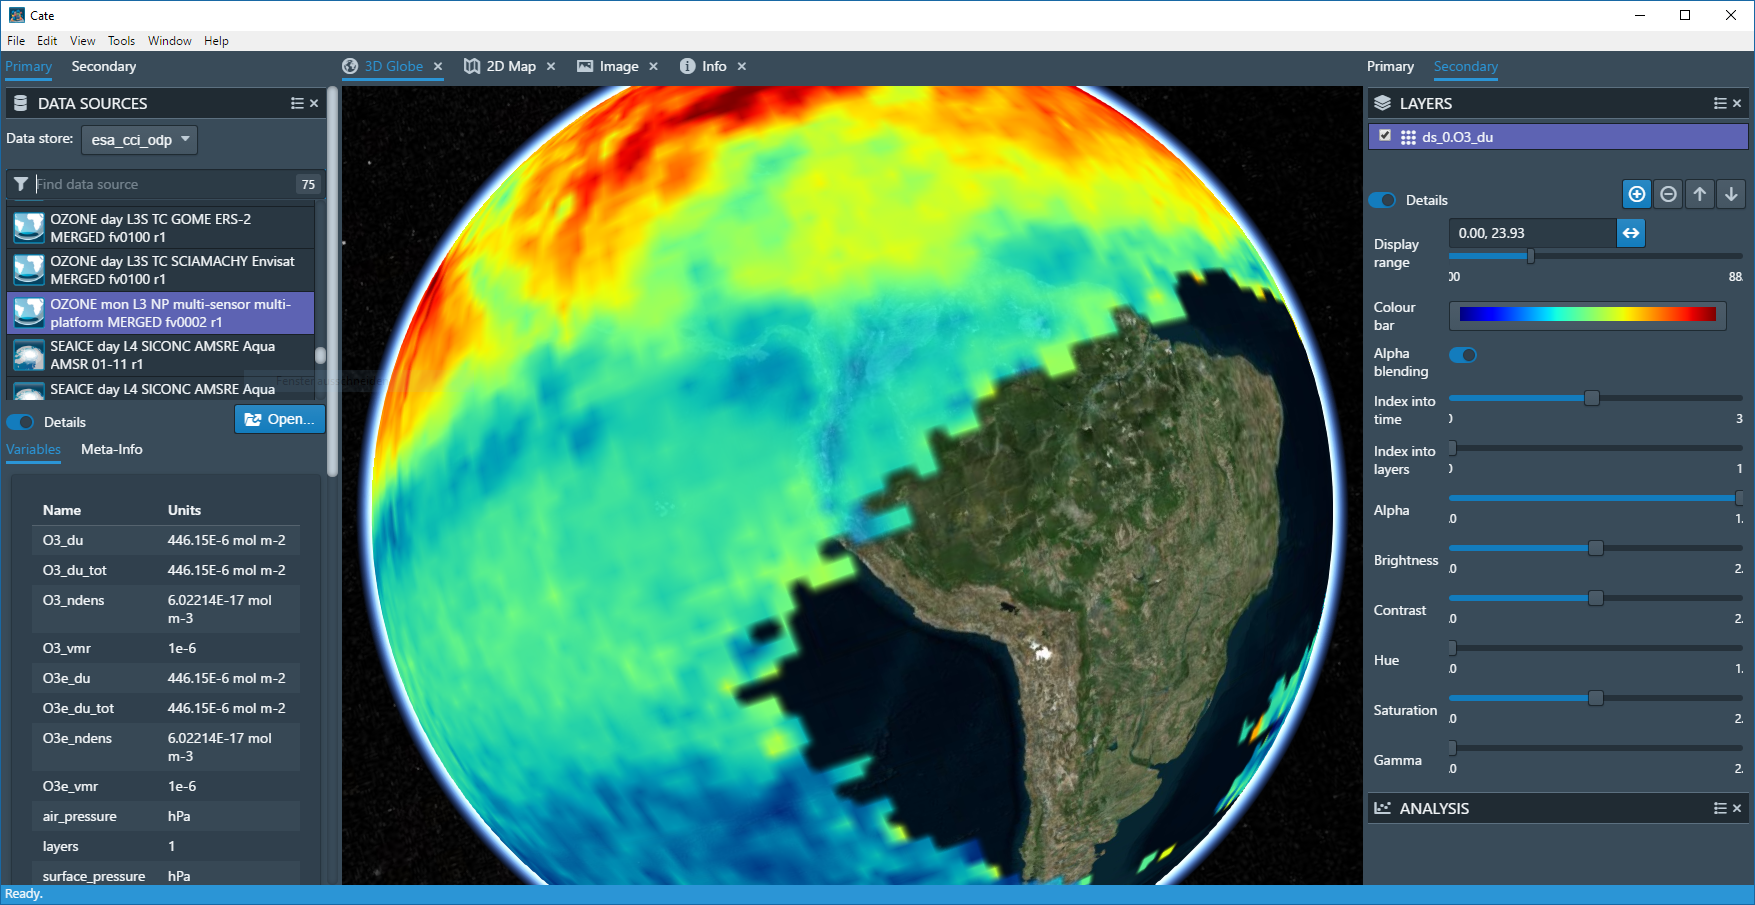
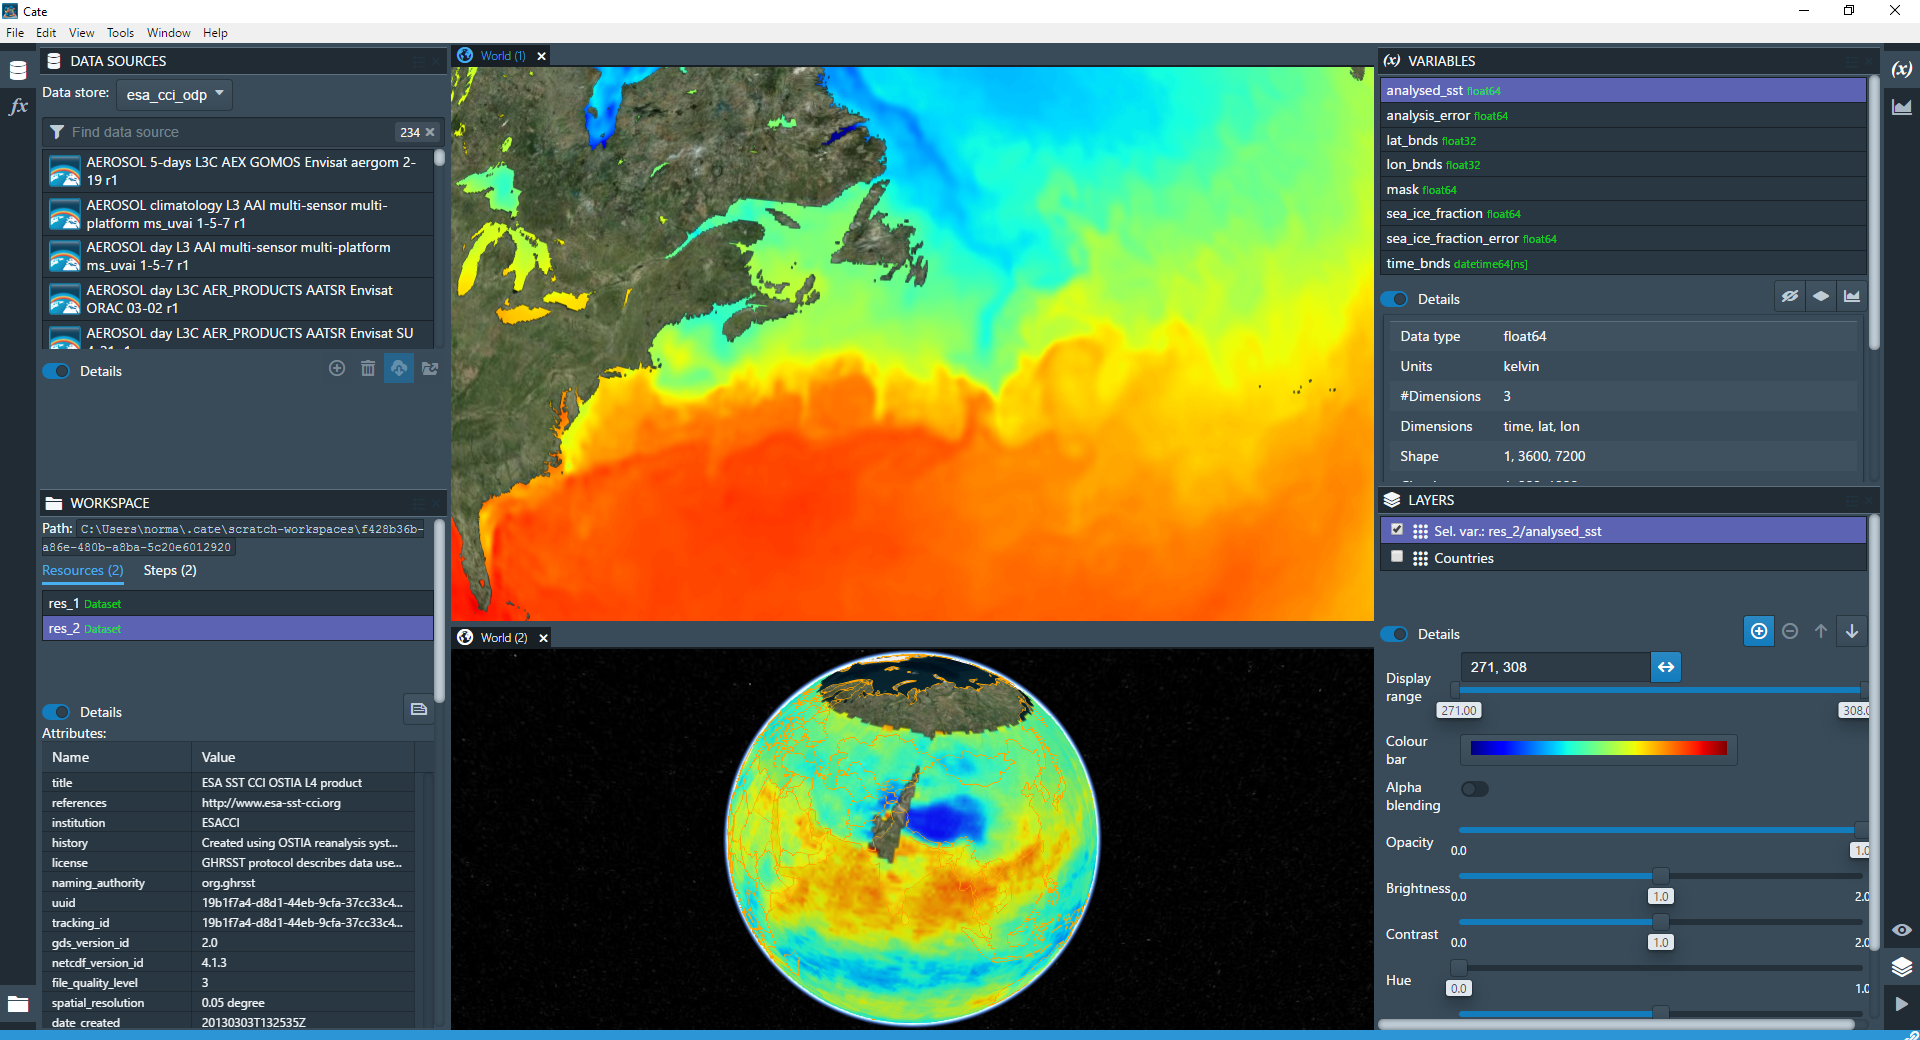
doc updates

diff --git a/doc/source/about.rst b/doc/source/about.rst
@@ -1,15 +1,161 @@
+.. _Climate Change Initiative: http://cci.esa.int/objective
+.. _CCI Open Data Portal: http://cci.esa.int/
+.. _xarray: http://xarray.pydata.org/en/stable/
+.. _pandas: http://pandas.pydata.org/
+.. _geopandas: http://geopandas.org/
+.. _NumPy: http://www.numpy.org/
+
+
+
 ==========
 About Cate
 ==========
 
-What is it for
-==============
+The name *Cate* stands for "Climate Analysis Toolbox for ESA" and is a software developed to facilitate
+processing and analysis of all the data products generated by the ESA `Climate Change Initiative`_ Programme (CCI).
 
-Why shall I use it
-==================
+Interfaces
+==========
 
-What does it contain
-====================
+Cate comprises three major software interfaces:
 
-Where do I find what
-====================
+1. The Cate **Python API** allows you using Cate functions in your Python programs. Cate is
+   programmed in Python 3.
+2. The Cate **Command-Line Interface** (CLI) used to access and process data through a command shell or
+   console terminal. Almost all Cate functionality is accessible through its CLI. You may decide to use the CLI
+   if you don't like programming in Python. The CLI may also be used to write batch processing scripts for
+   automation.
+3. **Cate Desktop** is a user-friendly desktop application. It provides a graphical user interface
+   to all the functionality provided by the CLI. In addition, the GUI
+   allows for visualising data on 3D globes and 2D maps.
+
+Concepts
+========
+
+The Cate software is based on a few simple concepts, which are referred to in all user interfaces. Therefore
+you should make yourself familiar with them before using Cate.
+
+Data Stores
+-----------
+
+By default, Cate uses the `CCI Open Data Portal`_ (ODP) **remote data store** which provides access to all published
+CCI datasets. There is also a **local data store**, which is used to synchronise remote data or to add any other
+data sources to Cate [1]_.
+
+Data Sources
+------------
+
+A data store comprises multiple **data sources** which know each dataset's unique identifier and other descriptive
+information about the dataset. Each data source also knows about the available data access protocols, which may be
+direct file access, file download via HTTP, or access through OPeNDAP, or a Web Coverage Service (WCS).
+
+In Cate's CLI, ``cate ds`` is used to perform numerous dataset-related tasks. Type:::
+
+    $ cate ds --help
+
+to get an overview of the supported sub-comands. For example, use
+
+    $ cate ds list
+
+to list and query available data sources.
+
+In the GUI, the panel **DATA SOURCES** lets you query and open all available data sources.
+
+Note that all remote CCI data source identifiers are prefixed by "esacci.", for example
+``esacci.SST.day.L4.SSTdepth.multi-sensor.multi-platform.OSTIA.1-0.r1``. Local data source identifiers are
+prefixed by "local.", for example ``local.SST_NAC_2010``.
+
+
+Datasets
+--------
+
+You may **open datasets** from a data source just by providing the dataset's identifier. The underlying physical
+file structure or access protocol remains transparent. That way, Cate can also deal with datasets that don't fit
+into your computer's memory, Cate allows for *out-of-core* and *multi-core* processing.
+However, you can always **read datasets** directly from your local. e.g. NetCDF files or ESRI Shapefiles.
+
+For Python programmers: it might be interesting for you that Cate does not invent new data structures for
+representing datasets in memory. Instead, opened datasets are represented by data structures defined by
+the popular Python packages `xarray`_, `pandas`_, and `geopandas`_:
+
+* Gridded and raster datasets (based on NetCDF/CF or OPeNDAP) are represented by `xarray.Dataset` objects [2]_.
+  Dataset variables are represented by `NumPy`_-compatible `xarray.DataArray` objects.
+* Vector datasets (from ESRI Shapefiles, GeoJSON files) are represented by `geopandas.GeoDataFrame` objects.
+  Dataset variables are represented by pandas-compatible `geopandas.GeoSeries` objects.
+* Tabular data (from CSV, Excel files) are represented by `pandas.DataFrame` objects.
+
+Functions and Operations
+------------------------
+
+Cate provides numerous I/O, analysis, and processing **operations** that address typical climate analyses.
+They are available through all Cate interfaces, the Python API, the CLI, and the GUI.
+
+For Python programmers: Theses *operations* are usual Python functions. The only difference is that Cate
+has an operation registry where functions to be published for use through the CLI and GUI are registered.
+In addition to operations provided by Cate, the Python packages `xarray`_, `pandas`_, and `geopandas`_
+provide a rich and powerful low-level data processing interface for the datasets opened through Cate.
+
+In Cate's CLI, ``cate op`` is used to perform numerous operation-related tasks. Type::
+
+    $ cate op --help
+
+to get an overview of the supported sub-commands. For example, use::
+
+    $ cate op list
+
+to list and query available operation.
+
+In the GUI, the panel OPERATIONS lets you query and apply all available operations. Applying an operation creates a
+new *workflow* step in the current *workspace*.
+
+Workflows, Resources, and Workspaces
+------------------------------------
+
+Using both the CLI and the GUI, users can work in interactive mode, which means that one command creates a
+certain state which provides a context for another command. In Cate, this can be done without actually storing any
+data to disk in-between two commands. For example the simple **workflow**
+
+1. open dataset ds1
+2. open dataset ds2
+3. get variable v1 of ds1
+4. get variable v2 of ds2
+5. compute v2b which is v2 on the same grid as v1
+6. compute c which is the correlation between v1 and v2b
+7. output c
+
+can be both executed the same way in the CLI and the GUI. Each step generates a new **resource**,
+e.g. ``ds1``, ``v2``. which can serve as input for a subsequent step. Only in the last step, data
+processing is actually triggered through the workflow, effectively computing and outputting the current
+value of resource ``c``. Currently, Cate workflow steps must refer to a Cate *operation*.
+Later versions of Cate will also support the following step types:
+
+* Python expressions with access to Cate Python API, xarray, pandas, geopandas, etc.
+* Python scripts with access to Cate Python API, xarray, pandas, geopandas, etc.
+* Any shell executables
+* Other workflows
+
+Worflows can be saved and reopened as part of a **workspace**. A workspace is just a directory in the
+user's file system. The workflow is saved as a JSON file within that directory together with any other files
+serving as input or output for the workflow. Relative file paths used as operation parameters are resolved
+against the current workspace directory. If a workspace is closed all of its in-memory resources are closed
+and disposed.
+
+In Cate's CLI, you'll find all workspace- and resource-related commands by using the ``cate ws`` and ``cate res``
+commands::
+
+    $ cate ws --help
+    $ cate res --help
+
+In Cate's GUI, workspace commands are available in the *File* menu. Furthermore
+
+* the panel WORKSPACE lists all available workspace resources and workflow steps, and
+* the panel VARIABLES lists the variables of a selected workspace resource.
+
+Both provide additional workspace-related commands.
+
+
+.. [1] Currently, only NetCDF files can be used as local data sources. In future releases, we will
+   support other formats such as ESRI Shapefiles and GeoTIFF.
+.. [2] Currently, only NetCDF and OPeNDAP sources can be represented by ``xarray.Dataset`` objects.
+   In future releases, we will support other generic formats such as GeoTIFF or HDF.
+

diff --git a/doc/source/terminology.rst b/doc/source/terminology.rst
@@ -7,35 +7,39 @@
 Terminology
 ===========
 
-In order to avoid confusion and ambiguity, a common terminology was agreed on as listed in :numref:`terminologytab`. It is partially based on `[RD-9]`_ and `[RD-10]`_ and is to be used in all parts of the CCI Toolbox project from the user-sided activities to the software development. The concept regarding the naming of data is also illustrated in :numref:`terminology`.
+The following table :numref:`terminology` based on `[RD-9]`_ and `[RD-10]`_ lists some of the terms used
+in the CCI Toolbox user interfaces and throughout this documentation.
 
 .. list-table:: CCI Toolbox Terminology
-   :name: terminologytab
+   :name: terminology
    :widths: 5 25
    :header-rows: 1
    
    * - Term
      - CCI Toolbox Definition
    * - ECV
-     - Umbrella term for geophysical quantity/quantities associated with climate variation and change as well as the impact of climate change onto Earth (e.g. cloud properties).
+     - Umbrella term for geophysical quantity/quantities associated with climate variation and change as well as the
+       impact of climate change onto Earth (e.g. cloud properties).
    * - ECV product
-     - Subdivision of ECVs in long-term data record of values or fields, covering one or more geophysical quantities (e.g. Cloud Water Path).
+     - Subdivision of ECVs in long-term data record of values or fields, covering one or more geophysical quantities
+       (e.g. Cloud Water Path).
    * - Geophysical quantity
-     - One physical parameter/variable in that constitutes a time series of observations (e.g. Cloud Liquid Water Path).
+     - One physical parameter/variable in that constitutes a time series of observations (e.g. Cloud Liquid Water
+       Path).
    * - Dataset
-     - In-memory representation of data read from a data source. Contains multiple layers of a geophysical quantity or multiple geophysical quantities with multiple layers encompassing e.g. information on temporal and spatial dimensions and localization or uncertainty information.
+     - In-memory representation of data opened from a *data source*. Contains multiple layers of a geophysical quantity or
+       multiple geophysical quantities with multiple layers encompassing e.g. information on temporal and spatial
+       dimensions and localization or uncertainty information.
    * - Data product
-     - Combination of dataset and geophysical quantity incl. uncertainty information (e.g. Cloud Liquid Water Path from L3S Modis merged phase1 v1.0 including uncertainty, standard deviation, number of observations, …)
+     - Combination of dataset and geophysical quantity incl. uncertainty information (e.g. Cloud Liquid Water Path
+       from L3S Modis merged phase1 v1.0 including uncertainty, standard deviation, number of observations, …)
+   * - Data store
+     - Offers multiple *data sources*.
+   * - Data source
+     - A concrete source for datasets. Provides the *schema* of datasets and other descriptive meta-information
+       about a dataset such as it geo-spatial coverage. Used to open datasets.
    * - Schema
      - Describes a dataset's structure, contents and data types.
-   * - Data store
-     - Offers multiple data sources.
-   * - Data source
-     - A concrete source for datasets. Has a schema and knows about dataset coverage. Used to load datasets.
 
-.. figure:: _static/figures/terminology.png
-   :scale: 60 %
-   :align: center
 
-   Illustration of the CCI Toolbox Terminology
         

diff --git a/doc/source/quick_start.rst b/doc/source/quick_start.rst
@@ -242,13 +242,13 @@ To filter the datasets to contain only a particular region use the ``subset_spat
 
 .. code-block:: console
 
-    $ cate res set oz_africa subset_spatial ds=@oz_tot lat_min=-40 lat_max=40 lon_min=-20 lon_max=60
+    $ cate res set oz_africa subset_spatial ds=@oz_tot region=-20,-40,60,40
     Executing 3 workflow step(s): done
     Resource "oz_africa" set.
 
 .. code-block:: console
 
-    $ cate res set cc_africa subset_spatial ds=@cc_tot_res lat_min=-40 lat_max=40 lon_min=-20 lon_max=60
+    $ cate res set cc_africa subset_spatial ds=@cc_tot_res region=-20,-40,60,40
     Executing 6 workflow step(s): done
     Resource "cc_africa" set.
 
@@ -264,7 +264,7 @@ To filter the datasets to contain only a particular region use the ``subset_spat
 
 .. code-block:: console
 
-    $ cate ws run plot_map ds=@cc_africa var=cc_total lat_min=-40 lat_max=40 lon_min=-20 lon_max=60 file=fig5.png
+    $ cate ws run plot_map ds=@cc_africa var=cc_total region=-20,-40,60,40 file=fig5.png
     Running operation 'plot_map': Executing 7 workflow step(s)
     Operation 'plot_map' executed.
 
@@ -277,26 +277,12 @@ To filter the datasets to contain only a particular region use the ``subset_spat
 Temporal Filtering
 ------------------
 
-To further filter the datasets to contain only a particular time-span, use ``subset_temporal`` operation
+To further filter the datasets to contain only a particular time range, use ``subset_temporal`` operation
 
 .. code-block:: console
 
-    $ cate res set oz_africa_janoct subset_temporal ds=@oz_africa time_min='2007-01-01' time_max='2007-10-30'
-    $ cate res set cc_africa_janoct subset_temporal ds=@cc_africa time_min='2007-01-01' time_max='2007-10-30'
-
-If on Linux, quotes enclosing datetime strings should be additionally escaped:
-
-.. code-block:: console
-
-    $ cate res set oz_africa_janoct subset_temporal ds=@oz_africa time_min=\'2007-01-01\' time_max=\'2007-10-30\'
-    Executing 4 workflow step(s): done
-    Resource "oz_africa_janoct" set.
-
-.. code-block:: console
-
-    $ cate res set cc_africa_janoct subset_temporal ds=@cc_africa time_min=\'2007-01-01\' time_max=\'2007-10-30\'
-    Executing 7 workflow step(s): done
-    Resource "cc_africa_janoct" set.
+    $ cate res set oz_africa_janoct subset_temporal ds=@oz_africa time_range=2007-01-01,2007-10-30
+    $ cate res set cc_africa_janoct subset_temporal ds=@cc_africa time_range=2007-01-01,2007-10-30
 
 
 -------------------

diff --git a/doc/source/user_manual/um_gui.rst b/doc/source/user_manual/um_gui.rst
@@ -3,15 +3,15 @@ Desktop GUI
 ===========
 
 *Cate Desktop* is a desktop application and is intended to serve as the primary graphical user interface (GUI)
-of the CCI Toolbox. Cate Desktop has no public release yet. However, it is actively developed and a first version is
-expected to be released in Spring 2017.
+of the CCI Toolbox. Cate Desktop only has an alpha preview state yet. However, it is actively developed and a first
+version is expected to be released in May 2017.
 
 The source code is available at GitHub in the `cate-desktop <https://github.com/CCI-Tools/cate-desktop>`_ repository.
 It is quite easy to build it from scratch and run from the command-line. If you are interested, just follow the
 build instructions given in the repository's `README <https://github.com/CCI-Tools/cate-desktop/blob/master/README.md>`_.
 
-The following :numref:`cate_desktop_1` and :numref:`cate_desktop_2` are screen shots of an early development stage
-(Jan 2017) of Cate Desktop:
+The following :numref:`cate_desktop_1` and :numref:`cate_desktop_2` are screen shots alpha preview stage
+(April 2017) of Cate Desktop:
 
 .. _cate_desktop_1:
 
@@ -19,7 +19,8 @@ The following :numref:`cate_desktop_1` and :numref:`cate_desktop_2` are screen s
    :scale: 50 %
    :align: center
 
-   Cate Desktop showing panels DATA SOURCES and LAYERS with CCI Ozone layer on a globe view
+   Cate Desktop showing panels DATA SOURCES, WORKSPACE, VARIABLES, and LAYERS with two world views
+   showing an SST and Ozone layer.
 
 .. _cate_desktop_2:
 
@@ -27,7 +28,7 @@ The following :numref:`cate_desktop_1` and :numref:`cate_desktop_2` are screen s
    :scale: 50 %
    :align: center
 
-   Cate Desktop showing the ADD WORKFLOW STEP dialog (``tseries_point`` operation)
+   Cate Desktop showing the ADD WORKFLOW STEP dialog (``tseries_mean`` operation) invoked from the OPERATIONS panel.
 
 
 

diff --git a/doc/source/user_manual/um_api.rst b/doc/source/user_manual/um_api.rst
@@ -5,13 +5,19 @@ Cate Python API
 Overview
 ========
 
+Coming soon.
+
 Using Cate in your Programs
 ===========================
+
+Coming soon.
 
 Extending Cate
 ==============
 
+Coming soon.
 
 Examples
 ========
 
+Coming soon.

diff --git a/doc/changelog.md b/doc/changelog.md
@@ -1,0 +1,5 @@
+## 0.7 to 0.8
+
+* Restructured docs
+* Included an "about" section that introduces the software and its concepts
+* Included terminology

diff --git a/doc/source/index.rst b/doc/source/index.rst
@@ -19,6 +19,7 @@ ESA CCI Toolbox Documentation
    architecture
    api_reference
    detailed_design
+   terminology
    rel_projects
    support
 
